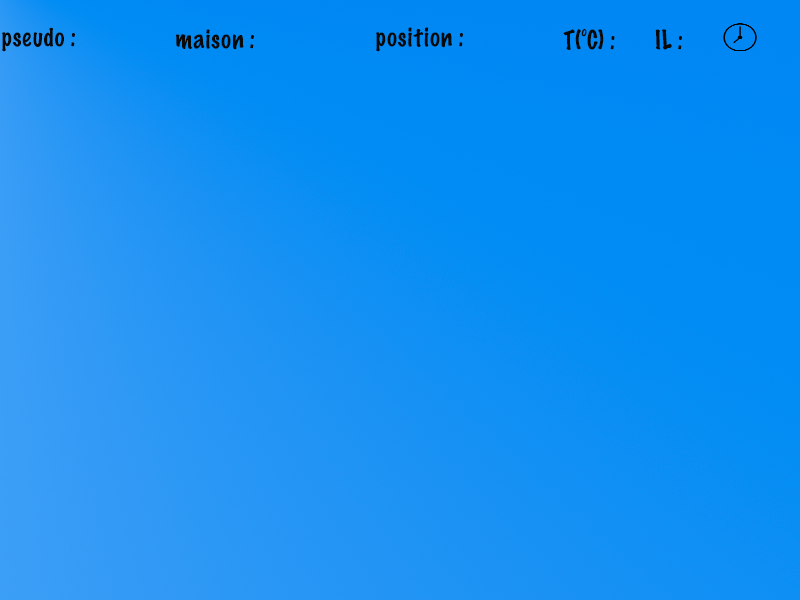
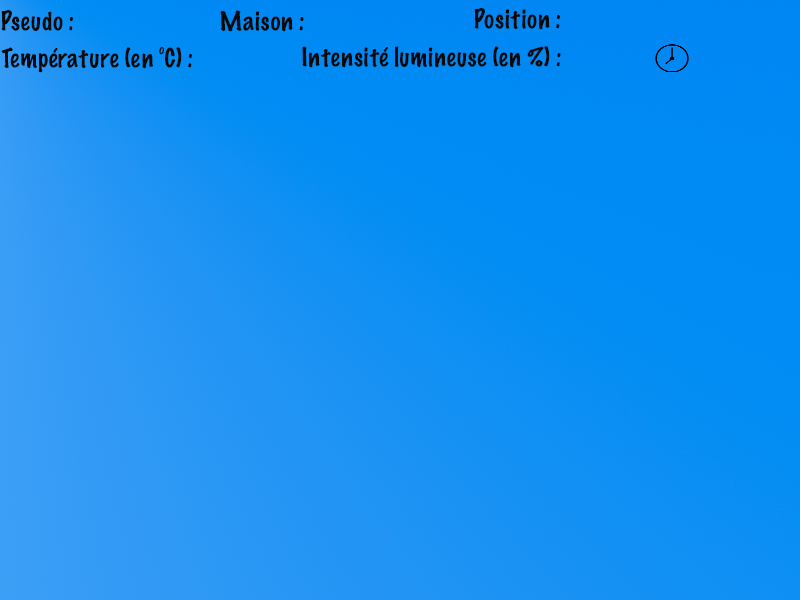
affichage données sur 2 lignes

diff --git a/ProjetIoT/src/main/Main.java b/ProjetIoT/src/main/Main.java
@@ -479,12 +479,12 @@ public class Main {
 		StdDraw.clear();
 		StdDraw.picture(0.5, 0.5, "images/couleurs/" + couleur + ".png");
 		StdDraw.picture(0.5, 0.5, "images/piece.png");
-		StdDraw.text(0.15, 0.93, pseudo);
-		StdDraw.text(0.38, 0.93, maison.getNom());
-		StdDraw.text(0.63, 0.93, position.getNom());
-		StdDraw.text(0.79, 0.93, String.valueOf(position.getTemperature()));
-		StdDraw.text(0.87, 0.93, String.valueOf(position.getIntensiteLumineuse()));
-		StdDraw.text(0.97, 0.93, String.valueOf(heure) + "h");
+		StdDraw.text(0.15, 0.96, pseudo);
+		StdDraw.text(0.45, 0.96, maison.getNom());
+		StdDraw.text(0.75, 0.96, position.getNom());
+		StdDraw.text(0.27, 0.9, String.valueOf(position.getTemperature()));
+		StdDraw.text(0.75, 0.9, String.valueOf(position.getIntensiteLumineuse()));
+		StdDraw.text(0.9, 0.9, String.valueOf(heure) + "h");
 		MiseNiveauGraphiqueObjets();
 	}
 
